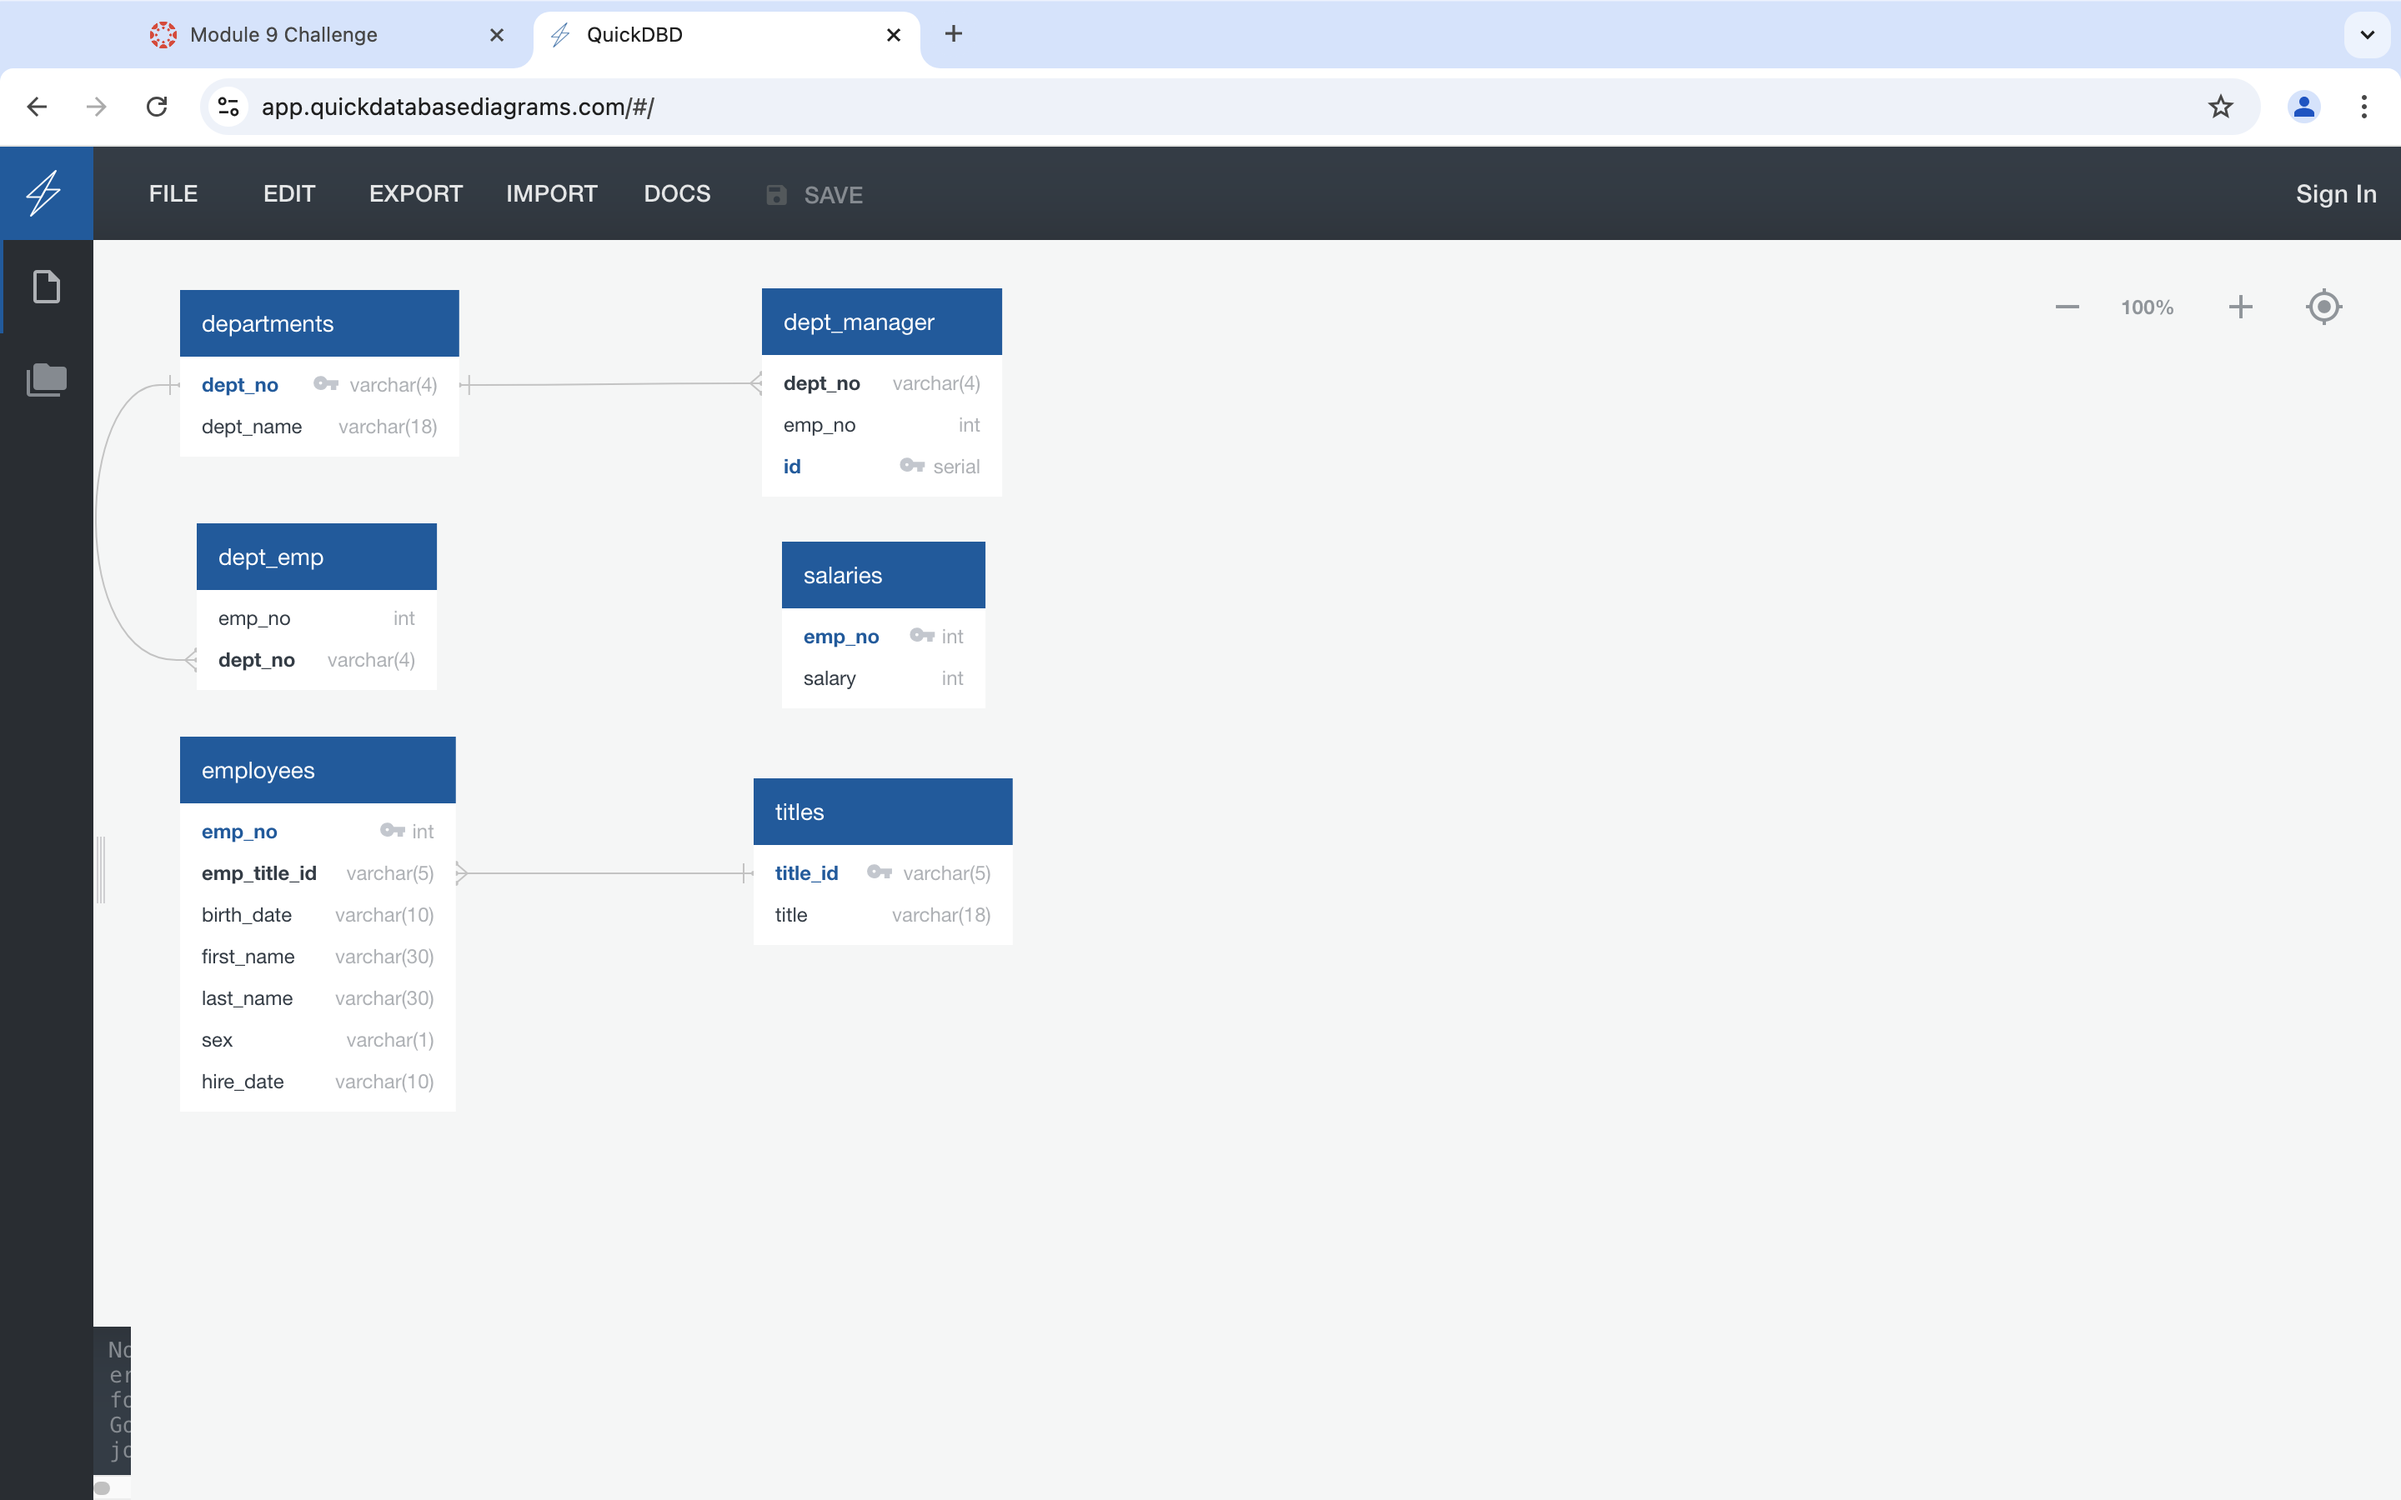
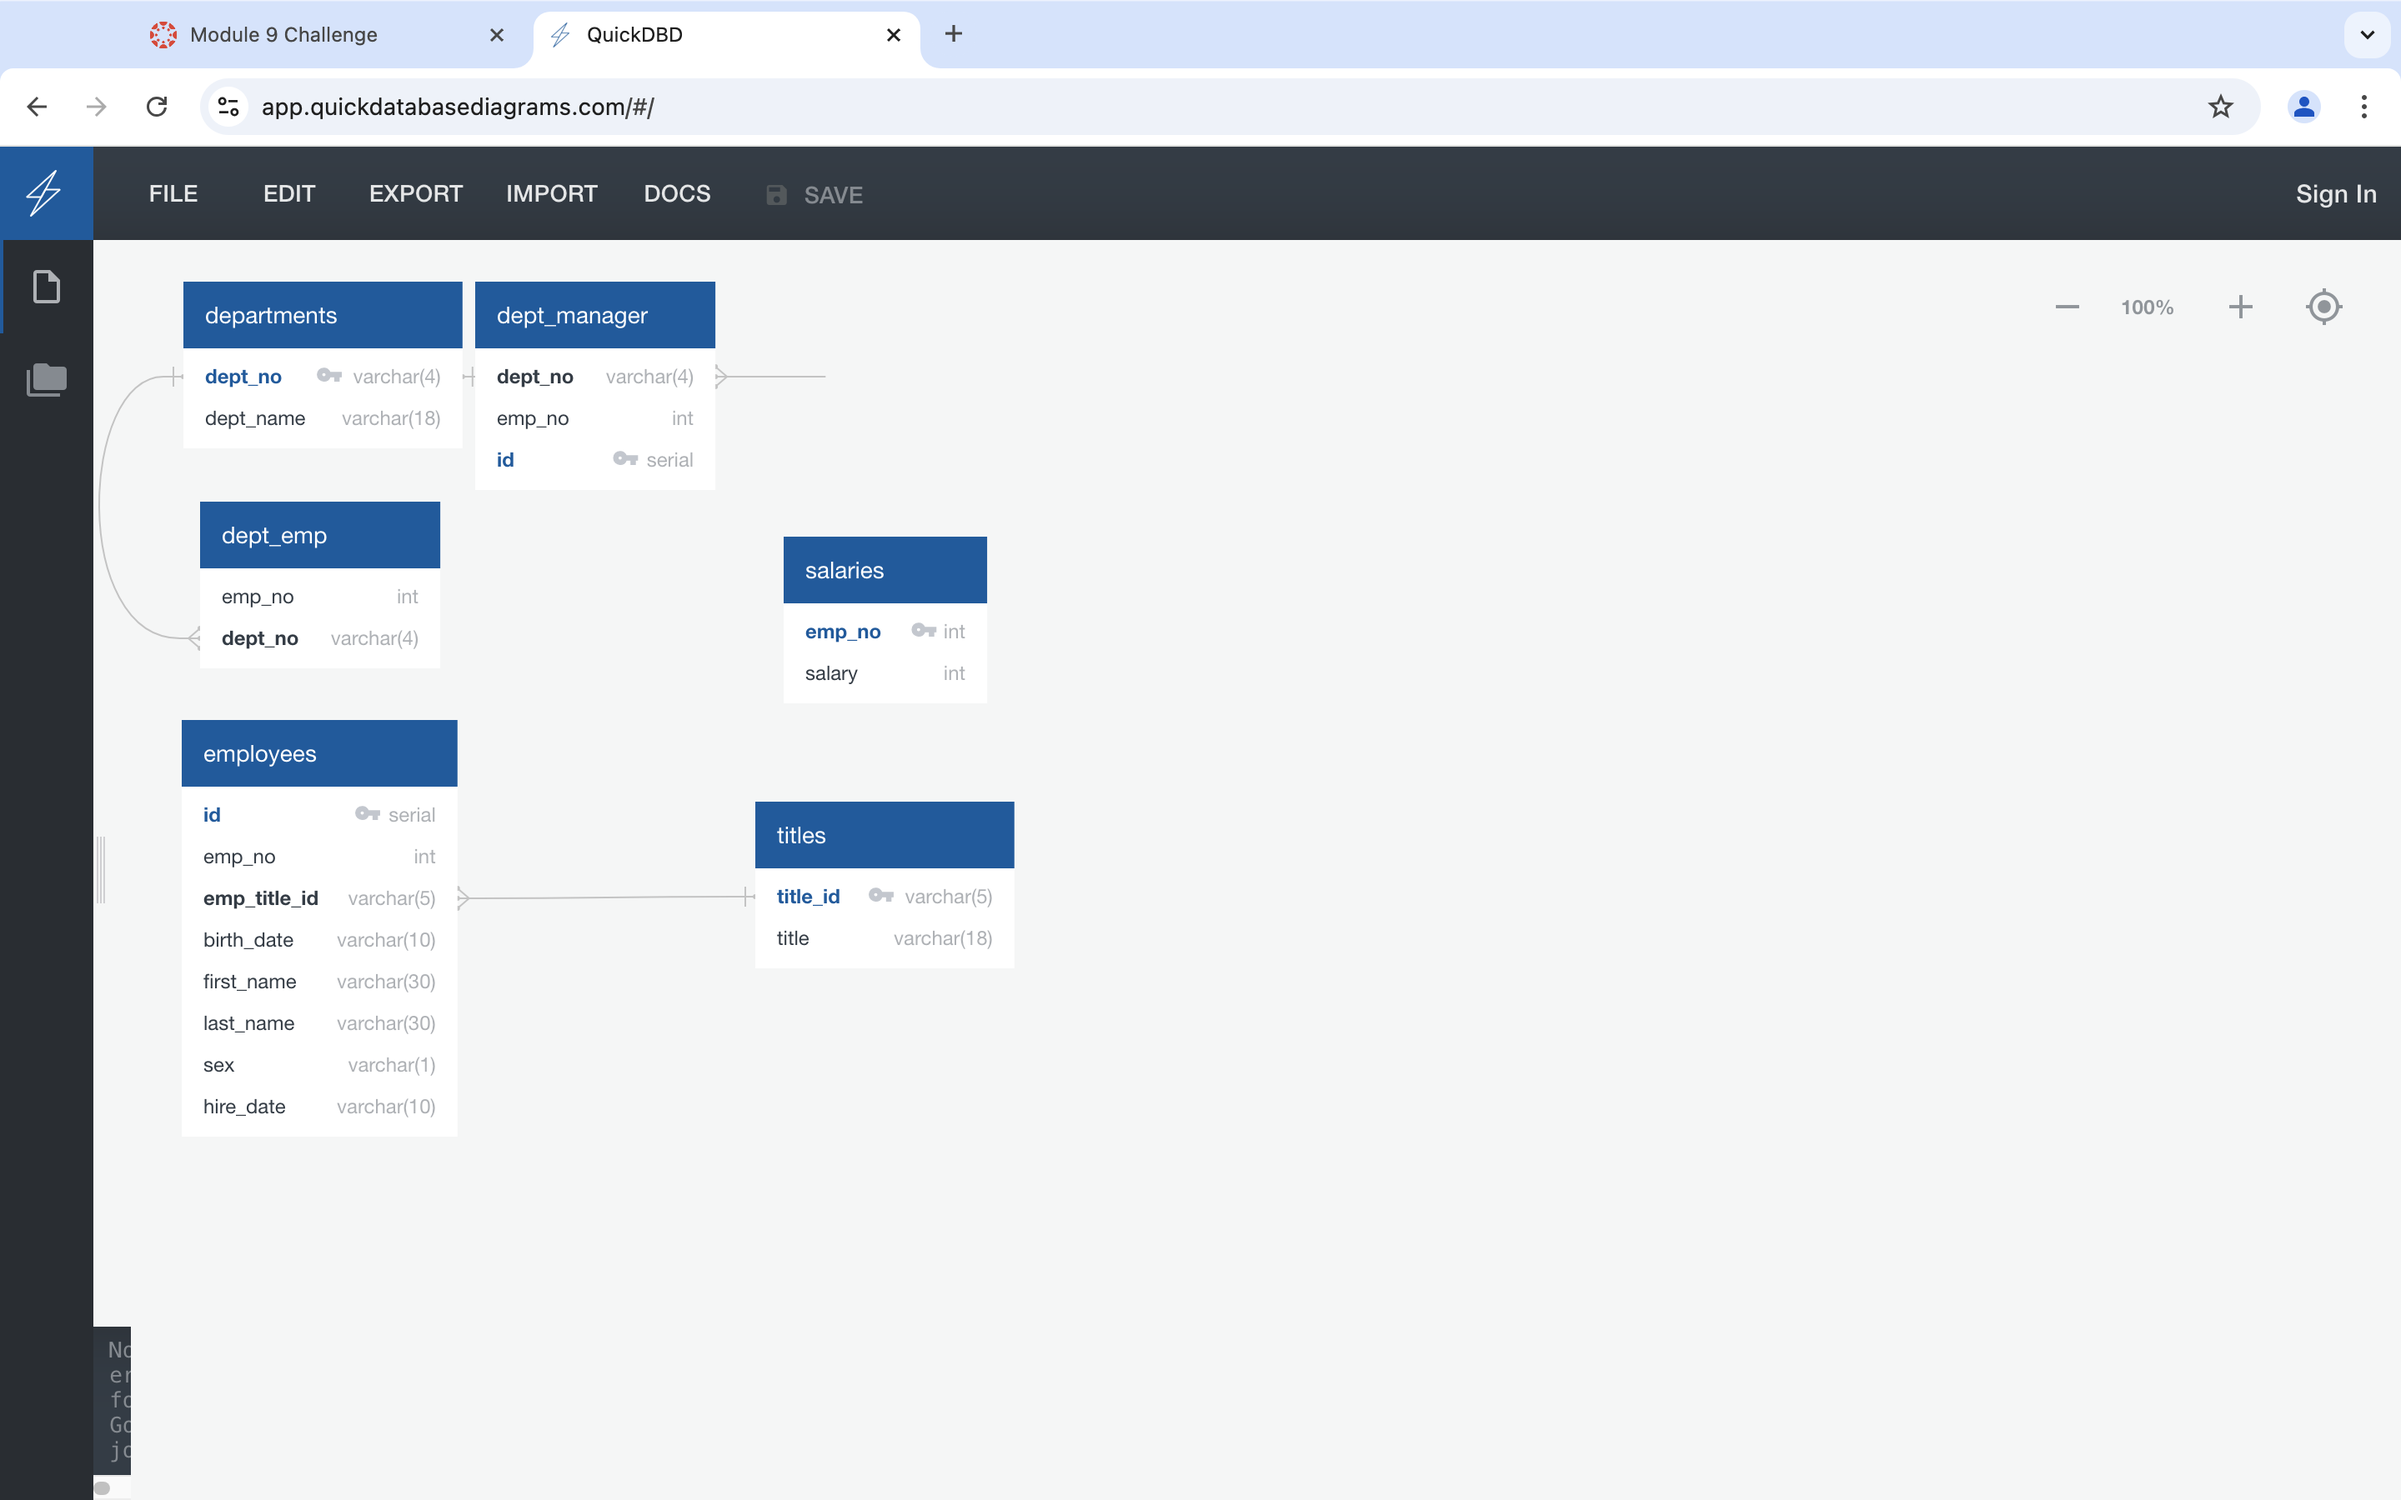
tentatively finishing up

Changed region(s): [[0.0625, 0.1867, 0.4375, 0.7467], [0.3125, 0.4978, 0.4375, 0.6222], [0.3125, 0.3422, 0.4062, 0.4356]]

diff --git a/README.md b/README.md
@@ -1,2 +1,22 @@
 # sql-challenge
 ninth week's assignment
+
+# For data modeling,
+I made a tentative ERD. I'm calling it tentative because -- as I completed this assignment -- it went through several edits.
+
+    The first edit was me changing the primary key from dept_no to emp_no in dept_manager since it did not occur to me that one department could have more than one manager. I realized my mistake after pgAdmin 4 would not accept dept_no as a primary key, and after consulting Xpert. Experiencing that hiccup made me take a moment to actually get to know the given data and really understand stand it before continuing with this challenge.
+
+    The second edit was me adding a column (id serial primary key) to dept_manager since the third prompt for data analysis specifically asked for managers -- in addition to dept_no, dept_name, emp_no, last_name, and first_name -- to be listed.
+
+    The third, and last, edit was me adding a column (id serial primary key) to employees for the same reason upon addressing the sixth and seventh prompts, which were asking for which employee in employees to be listed.
+
+# For data engineering,
+I used the same format for my schemata which we used in class to create the tables, and I imported the data through the provided csv.
+    
+    When I imported data for tables including the columns for id serial primary key, I was sure to remove that column from the tab called columns on pgAdmin before importing.
+    
+    While I completed data modelling, I was able to meaningfully familiarize myself with the data, so -- during the process for data engineering -- I was able to choose which columns were primary keys by simply reviewing how they influenced each table.
+
+# For data analysis,
+I was able to use (1) the knowledge which I acquired in class and (2) resources with documentation on aggregate functions to finish this assignment.
+    They helped me figure out my approach to answering each prompt, for the most part. A lot of times, the activities in class acted as references and templates for me, too. More nitty-gritty information on my specific sources can be found in the comments of dataanalytics.sql.
